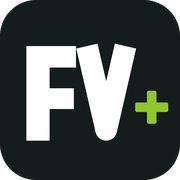
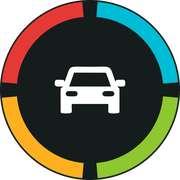
feat(icono): el aro de los cuatro colores con el coche de Vehículos
El icono pasa a ser un disco oscuro con el aro de los cuatro colores de
la marca —turquesa, verde, ámbar y rojo, los mismos de la línea que va
bajo el nombre en la pantalla de acceso— y dentro el coche que la
aplicación ya usa en la pestaña de Vehículos: el símbolo #i-car de
app.html, tal cual. No es un dibujo nuevo a propósito; el icono de la
pestaña del navegador y el de dentro tienen que ser el mismo, o son dos
marcas.

Antes fue una versión con las letras «FV+», que era legible pero no
decía de qué va esto.

A 16 px el coche se difumina y queda el aro, que es justo lo que hace
falta: distinguir la pestaña entre veinte. Comprobado a 16, 32, 64 y
128.

El SVG lo escribe tools/generar-iconos.py, y de ese mismo archivo salen
el .ico de la raíz, los PNG de 180, 192 y 512 y el enmascarable con su
margen. Se guarda el guion porque el aro son cuatro arcos calculados con
trigonometría: rehacerlos a mano la próxima vez es pedir que no cuadren.
Ahí está también anotado por qué no van con un patrón de trazo, que es
más corto de escribir y se rompe en los rasterizadores que no entienden
stroke-dashoffset — se probó y el icono salía con un solo arco rojo.

diff --git a/app.html b/app.html
@@ -22,19 +22,19 @@
      Firefox y Edge; el .ico de la raíz es para los que no entienden SVG y
      para cuando el navegador lo pide por su cuenta, sin mirar el HTML; y
      el PNG de 180 es el que se lleva el iPhone a la pantalla de inicio. -->
-<link rel="icon" type="image/svg+xml" href="icons/favicon.svg?v=3">
-<link rel="icon" href="/favicon.ico?v=3" sizes="32x32 48x48">
+<link rel="icon" type="image/svg+xml" href="icons/favicon.svg?v=5">
+<link rel="icon" href="/favicon.ico?v=5" sizes="32x32 48x48">
 
 <!-- Instalable: sin esta línea el navegador no ofrece instalar nada, por
      muy completo que esté el manifiesto. -->
-<link rel="manifest" href="/manifest.json?v=4">
+<link rel="manifest" href="/manifest.json?v=5">
 
 <!-- El anti-bot de Cloudflare vive en otro dominio. Sin esto, el celular
      empieza a resolver DNS y a negociar TLS recién al abrir el formulario
      de acceso, y el recuadro tarda segundos en aparecer. -->
 <link rel="preconnect" href="https://challenges.cloudflare.com" crossorigin>
 <link rel="dns-prefetch" href="https://challenges.cloudflare.com">
-<link rel="apple-touch-icon" href="icons/apple-touch-icon.png?v=3">
+<link rel="apple-touch-icon" href="icons/apple-touch-icon.png?v=5">
 <meta name="apple-mobile-web-app-capable" content="yes">
 <meta name="apple-mobile-web-app-status-bar-style" content="black-translucent">
 <meta name="apple-mobile-web-app-title" content="Filtro Vehicular+">

diff --git a/index.html b/index.html
@@ -10,10 +10,10 @@
      marcadores y la que abre el buscador. Sin icono declarado, ese marcador
      se queda con el papel en blanco del navegador. -->
 <meta name="theme-color" content="#141D1C">
-<link rel="icon" type="image/svg+xml" href="icons/favicon.svg?v=3">
-<link rel="icon" href="/favicon.ico?v=3" sizes="32x32 48x48">
-<link rel="apple-touch-icon" href="icons/apple-touch-icon.png?v=3">
-<link rel="manifest" href="/manifest.json?v=4">
+<link rel="icon" type="image/svg+xml" href="icons/favicon.svg?v=5">
+<link rel="icon" href="/favicon.ico?v=5" sizes="32x32 48x48">
+<link rel="apple-touch-icon" href="icons/apple-touch-icon.png?v=5">
+<link rel="manifest" href="/manifest.json?v=5">
 <title>Plataforma Filtro Vehicular+</title>
 </head>
 <body>

diff --git a/sw.js b/sw.js
@@ -12,7 +12,7 @@
 
 // IMPORTANTE: incrementar CACHE_VERSION en cada deploy para que los usuarios
 // reciban las actualizaciones de JS/CSS/HTML automáticamente.
-const CACHE_VERSION = "v2.12.1-20260819";
+const CACHE_VERSION = "v2.12.2-20260819";
 const SHELL_CACHE = "fv-shell-" + CACHE_VERSION;
 const ASSETS_CACHE = "fv-assets-" + CACHE_VERSION;
 const IMG_CACHE = "fv-img-" + CACHE_VERSION;
